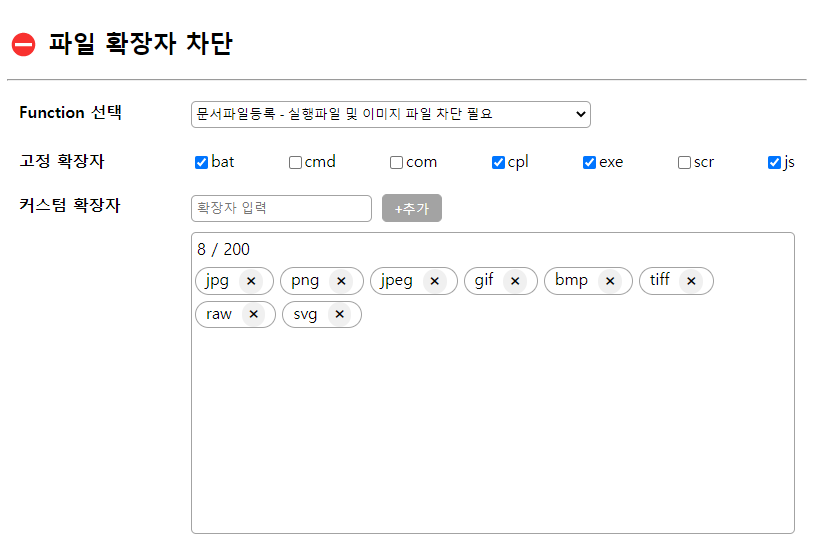
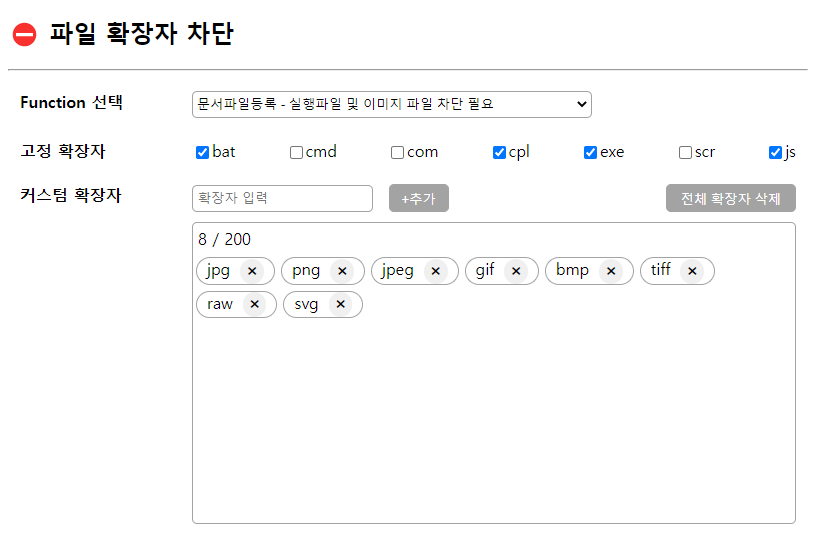
README.md 업데이트

diff --git a/README.md b/README.md
@@ -1,7 +1,9 @@
 # ⛔ 파일 확장자 차단
 작성자 : _지원자 문찬웅_ 
 
-![](readmeResources/flow-mainPage.png)
+[![파일 확장자 차단 데모페이지](readmeResources/flow-mainPage.png)](http://175.192.33.235/flow/) <br>
+[⛔ 파일 확장자 차단 데모페이지 링크](http://175.192.33.235/flow/)
+
 ---
 ### 과제 수행 내용
 > 필수 고려사항 **(완료)**
@@ -29,6 +31,7 @@
     - 고정 확장자에 포함되어 있는지 확인
     - 이미 추가되어있는 확장자인지 확인
 - 커스텀 확장자를 추가한 순서대로 시각화
+- 전체 확장자 삭제 기능 추가
 ---
 ### 개발 환경 및 언어
 - JAVA 8
@@ -87,7 +90,8 @@
      ```
 
 - **[DELETE]** /extensions/{funcKeyAndCode}
-  - 확장자 삭제 'funcKey,code' 형식으로 전송 (ex. /extensions/1,exe)
+  - 단일 확장자 삭제 'funcKey,code' 형식으로 전송 (ex. /extensions/1,exe)
+  - 전체 확장자 삭제 'funcKey' 전송 (ex. /extensions/1)
 ---
 ### etc.
 ```
